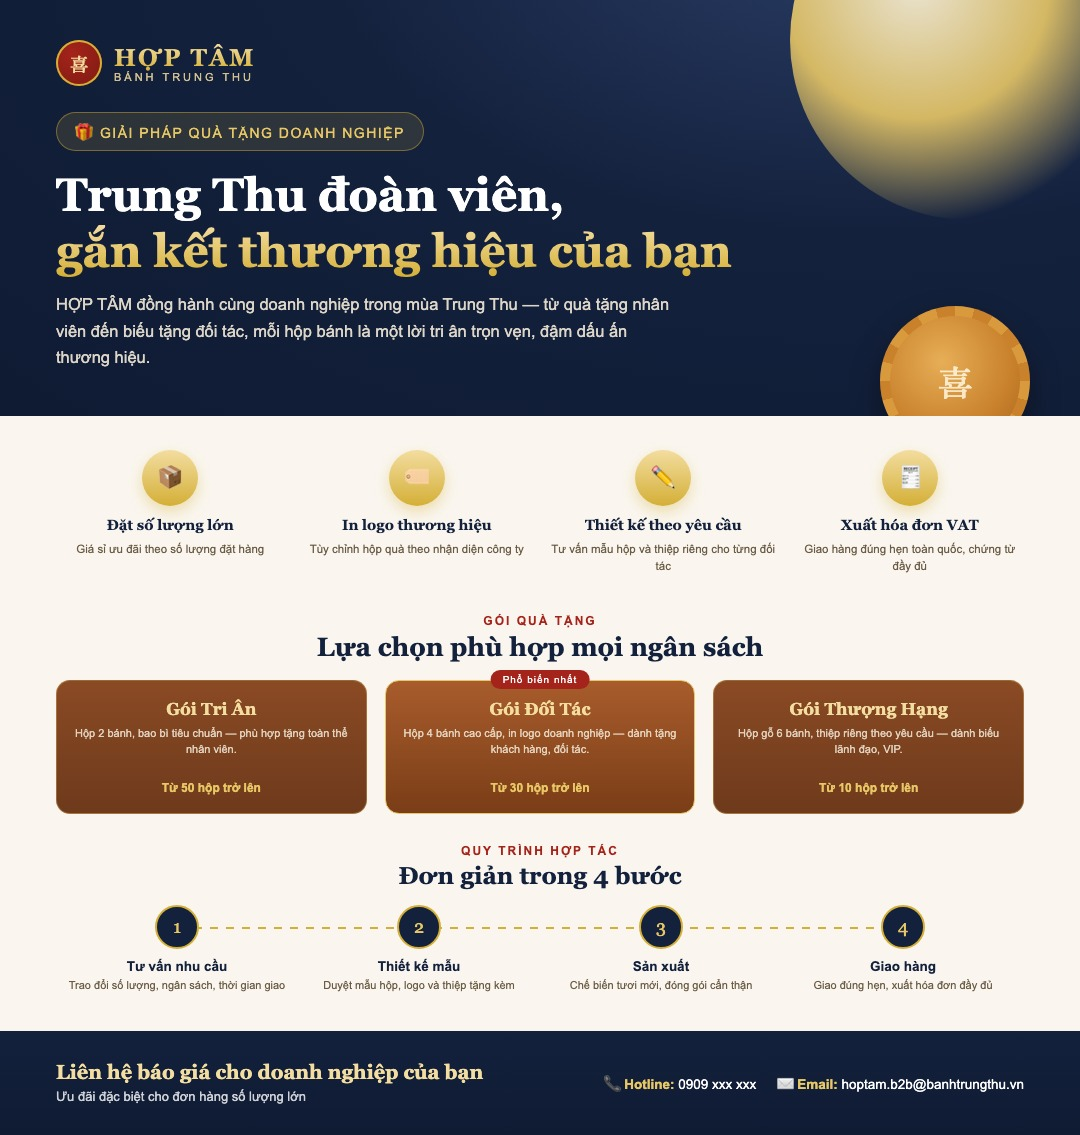
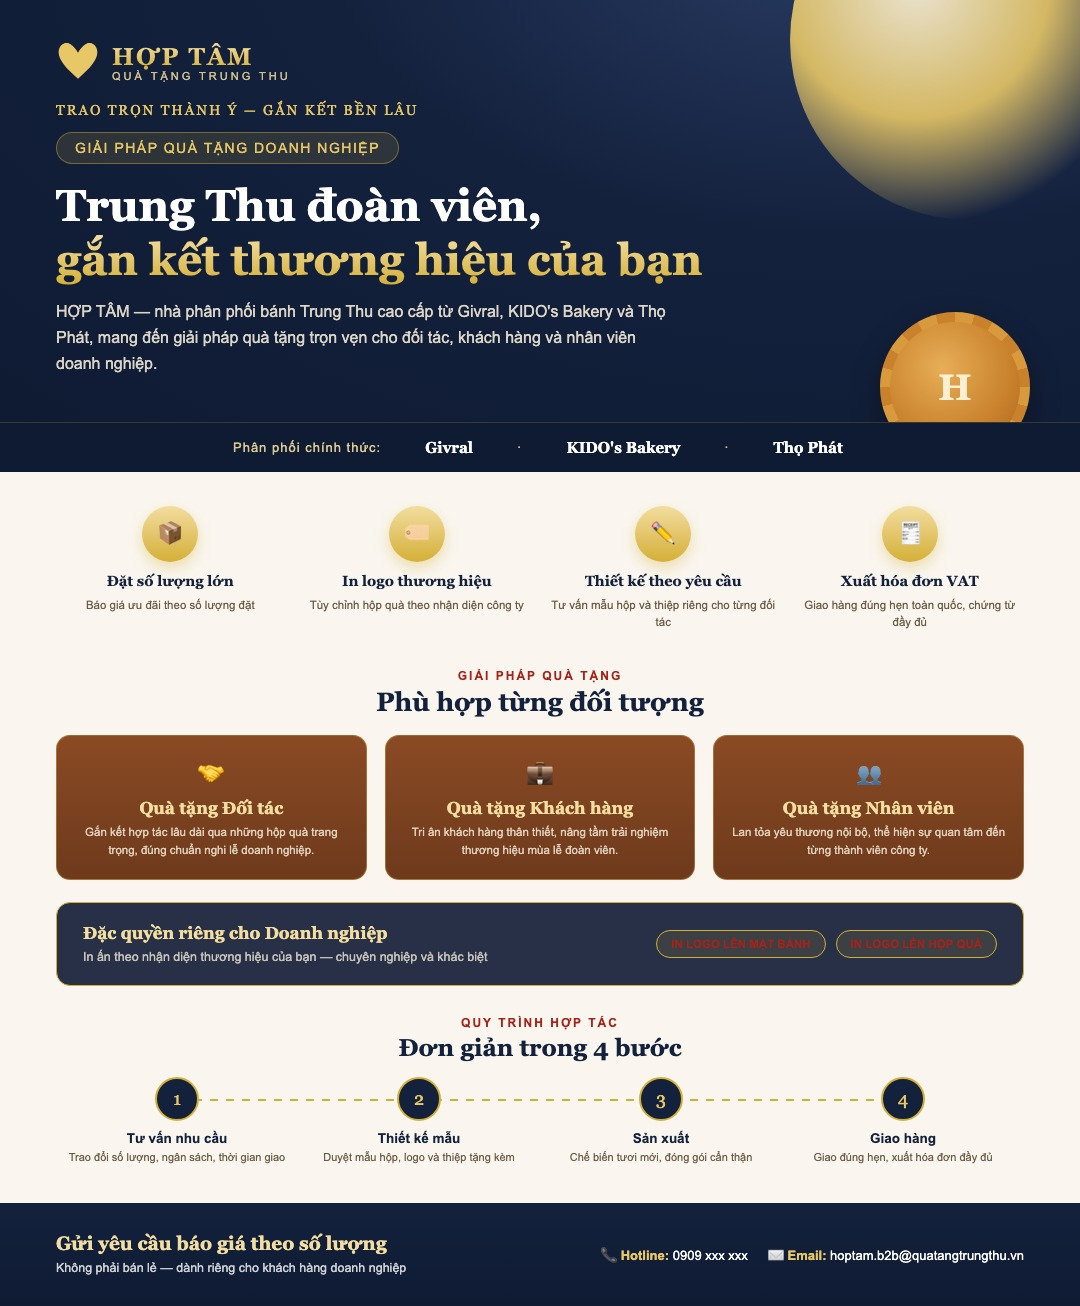
Add B2B price table by brand, reframe as quote-request for businesses
Show real reference prices from KIDO's Bakery catalog per product
group, mark Givral/Thọ Phát lines as "Liên hệ báo giá" where no
confirmed price exists rather than inventing numbers. Rename CTAs and
the contact form from retail "đặt hàng" language to a B2B quantity/
quote-request flow (dedicated "Số lượng dự kiến" field). Rebuild the
B2B poster to match: real logo mark, three gift-audience cards instead
of fabricated price tiers, brand strip for Givral/KIDO's Bakery/Thọ
Phát, and fixed a low-contrast text color in the policy banner.

Changed region(s): [[0.0, 0.0308, 1.0, 0.9868], [0.7333, 0.0617, 1.0, 0.185]]

diff --git a/b2b-poster-source.html b/b2b-poster-source.html
@@ -32,32 +32,33 @@
     background:radial-gradient(circle at 35% 35%, #fff6dc 0%, var(--gold-400) 40%, rgba(212,175,55,0) 72%);
     opacity:.9;
   }
-  .brand{display:flex;align-items:center;gap:12px;position:relative;z-index:2;margin-bottom:26px;}
-  .seal{
-    width:46px;height:46px;border-radius:50%;
-    background:radial-gradient(circle at 35% 30%, var(--red-600), var(--red-700));
-    display:flex;align-items:center;justify-content:center;
-    box-shadow:0 0 0 2px var(--gold-500) inset;flex:none;
-  }
-  .seal span{font-family:Georgia,serif;font-weight:700;color:var(--gold-300);font-size:18px;}
+  .brand{display:flex;align-items:center;gap:12px;position:relative;z-index:2;margin-bottom:18px;}
+  .seal{width:44px;height:44px;flex:none;}
+  .seal svg{width:100%;height:100%;}
   .brand b{display:block;font-family:Georgia,serif;font-size:24px;letter-spacing:2px;
     background:linear-gradient(180deg,var(--gold-300),var(--gold-500));-webkit-background-clip:text;background-clip:text;color:transparent;}
   .brand small{display:block;font-size:11px;letter-spacing:3px;color:var(--gold-300);opacity:.85;}
 
+  .slogan{position:relative;z-index:2;font-family:Georgia,serif;font-size:14px;letter-spacing:2px;color:var(--gold-400);margin-bottom:14px;}
   .kicker{position:relative;z-index:2;display:inline-block;background:rgba(212,175,55,.14);border:1px solid rgba(212,175,55,.45);
     color:var(--gold-400);padding:7px 18px;border-radius:999px;font-size:14px;letter-spacing:1.5px;margin-bottom:16px;}
-  .head h1{position:relative;z-index:2;font-family:Georgia,serif;font-size:46px;line-height:1.22;color:#fff;margin-bottom:12px;max-width:760px;}
+  .head h1{position:relative;z-index:2;font-family:Georgia,serif;font-size:44px;line-height:1.22;color:#fff;margin-bottom:12px;max-width:760px;}
   .head h1 em{font-style:normal;background:linear-gradient(180deg,var(--gold-300),var(--gold-500));
     -webkit-background-clip:text;background-clip:text;color:transparent;}
-  .head p{position:relative;z-index:2;font-size:16.5px;line-height:1.6;color:var(--cream-100);opacity:.9;max-width:620px;}
+  .head p{position:relative;z-index:2;font-size:16px;line-height:1.6;color:var(--cream-100);opacity:.9;max-width:620px;}
 
   .head .mooncake-deco{position:absolute;right:50px;bottom:-40px;width:150px;height:150px;border-radius:50%;
     background:repeating-conic-gradient(from 0deg,#d99a3d 0deg 15deg,#c9812c 15deg 30deg);
     box-shadow:0 14px 30px rgba(0,0,0,.35);z-index:1;}
   .head .mooncake-deco::before{content:"";position:absolute;inset:10px;border-radius:50%;
     background:radial-gradient(circle at 40% 35%, #e7ae57, #c9812c 60%, #a8641d 100%);}
-  .head .mooncake-deco::after{content:"喜";position:absolute;inset:0;display:flex;align-items:center;justify-content:center;
-    font-size:34px;color:rgba(255,247,225,.85);font-family:Georgia,serif;font-weight:700;}
+  .head .mooncake-deco::after{content:"H";position:absolute;inset:0;display:flex;align-items:center;justify-content:center;
+    font-size:36px;color:rgba(255,247,225,.9);font-family:Georgia,serif;font-weight:700;}
+
+  /* ---- Brand strip ---- */
+  .brand-strip{flex:none;background:var(--navy-950);padding:16px 56px;display:flex;align-items:center;justify-content:center;gap:40px;border-top:1px solid rgba(212,175,55,.2);}
+  .brand-strip span{color:var(--gold-300);font-size:13px;letter-spacing:1px;opacity:.9;}
+  .brand-strip b{font-family:Georgia,serif;color:#fff;font-size:15px;margin:0 4px;}
 
   /* ---- Value props ---- */
   .values{flex:none;background:var(--cream-50);padding:34px 56px 8px;display:grid;grid-template-columns:repeat(4,1fr);gap:18px;}
@@ -67,20 +68,28 @@
   .vcard h4{font-size:14.5px;font-family:Georgia,serif;color:var(--navy-900);margin-bottom:6px;line-height:1.3;}
   .vcard p{font-size:11.5px;color:var(--ink-500);line-height:1.5;}
 
-  /* ---- Packages ---- */
+  /* ---- Gift audiences ---- */
   .pkg-section{flex:none;padding:30px 56px 0;}
   .pkg-title{text-align:center;margin-bottom:18px;}
   .pkg-title .tag{color:var(--red-600);font-size:12px;letter-spacing:2px;font-weight:700;}
   .pkg-title h2{font-family:Georgia,serif;font-size:26px;color:var(--navy-900);margin-top:4px;}
-  .pkg-grid{display:grid;grid-template-columns:repeat(3,1fr);gap:18px;}
-  .pkg-card{border-radius:14px;padding:18px 16px;text-align:center;background:linear-gradient(180deg,var(--terracotta-700),#6e3a1c);
+  .pkg-grid{display:grid;grid-template-columns:repeat(3,1fr);gap:18px;margin-bottom:22px;}
+  .pkg-card{border-radius:14px;padding:20px 16px;text-align:center;background:linear-gradient(180deg,var(--terracotta-700),#6e3a1c);
     border:1px solid rgba(232,199,102,.35);color:var(--cream-100);position:relative;}
-  .pkg-card.mid{border-color:var(--gold-400);background:linear-gradient(180deg,#a85c2c,#7a3d17);}
-  .pkg-card .ribbon{position:absolute;top:-11px;left:50%;transform:translateX(-50%);background:var(--red-600);color:#fff;
-    font-size:10px;letter-spacing:1px;padding:4px 12px;border-radius:999px;}
+  .pkg-card .picon{font-size:26px;margin-bottom:8px;}
   .pkg-card h3{font-family:Georgia,serif;font-size:17px;color:var(--gold-300);margin-bottom:6px;}
-  .pkg-card p{font-size:11px;opacity:.85;line-height:1.5;margin-bottom:8px;min-height:48px;}
-  .pkg-card .qty{font-size:12px;color:var(--gold-400);font-weight:700;}
+  .pkg-card p{font-size:11.5px;opacity:.85;line-height:1.5;margin:0;}
+  .policy-banner{
+    background:rgba(15,27,51,.9);border:1px solid var(--gold-500);border-radius:14px;
+    padding:20px 26px;display:flex;align-items:center;gap:18px;flex-wrap:wrap;justify-content:space-between;
+  }
+  .policy-banner .txt b{display:block;font-family:Georgia,serif;font-size:17px;color:var(--gold-300);margin-bottom:4px;}
+  .policy-banner .txt span{font-size:12.5px;color:var(--cream-100);opacity:.8;}
+  .policy-banner .badges{display:flex;gap:10px;flex-wrap:wrap;}
+  .policy-banner .badges span{
+    background:rgba(212,175,55,.12);border:1px solid var(--gold-500);color:var(--red-600);
+    padding:7px 14px;border-radius:999px;font-size:11.5px;white-space:nowrap;font-weight:600;
+  }
 
   /* ---- Process ---- */
   .process{flex:none;padding:30px 56px 0;display:flex;flex-direction:column;}
@@ -98,9 +107,9 @@
   /* ---- CTA footer ---- */
   .cta{flex:none;background:linear-gradient(180deg,var(--navy-900),var(--navy-950));color:#fff;padding:30px 56px;
     display:flex;align-items:center;justify-content:space-between;margin-top:38px;}
-  .cta .left b{font-family:Georgia,serif;font-size:20px;color:var(--gold-300);display:block;margin-bottom:4px;}
-  .cta .left span{font-size:13px;opacity:.8;}
-  .cta .right{display:flex;gap:20px;font-size:13.5px;}
+  .cta .left b{font-family:Georgia,serif;font-size:19px;color:var(--gold-300);display:block;margin-bottom:4px;}
+  .cta .left span{font-size:12.5px;opacity:.8;}
+  .cta .right{display:flex;gap:20px;font-size:13px;}
   .cta .right div b{color:var(--gold-400);}
 </style>
 </head>
@@ -108,40 +117,58 @@
 <div class="canvas">
   <div class="head">
     <div class="brand">
-      <div class="seal"><span>喜</span></div>
-      <div><b>HỢP TÂM</b><small>BÁNH TRUNG THU</small></div>
+      <div class="seal">
+        <svg viewBox="0 0 100 100" xmlns="http://www.w3.org/2000/svg">
+          <circle cx="24" cy="17" r="10" fill="#e8c766"/>
+          <circle cx="76" cy="17" r="10" fill="#e8c766"/>
+          <path d="M50,88 C22,64 6,45 6,28 C6,12 20,2 32,9 C40,14 46,21 50,29 C54,21 60,14 68,9 C80,2 94,12 94,28 C94,45 78,64 50,88 Z" fill="#e8c766"/>
+        </svg>
+      </div>
+      <div><b>HỢP TÂM</b><small>QUÀ TẶNG TRUNG THU</small></div>
     </div>
-    <div class="kicker">🎁 GIẢI PHÁP QUÀ TẶNG DOANH NGHIỆP</div>
+    <div class="slogan">TRAO TRỌN THÀNH Ý — GẮN KẾT BỀN LÂU</div>
+    <div class="kicker">GIẢI PHÁP QUÀ TẶNG DOANH NGHIỆP</div>
     <h1>Trung Thu đoàn viên,<br><em>gắn kết thương hiệu của bạn</em></h1>
-    <p>HỢP TÂM đồng hành cùng doanh nghiệp trong mùa Trung Thu — từ quà tặng nhân viên đến biếu tặng đối tác, mỗi hộp bánh là một lời tri ân trọn vẹn, đậm dấu ấn thương hiệu.</p>
+    <p>HỢP TÂM — nhà phân phối bánh Trung Thu cao cấp từ Givral, KIDO's Bakery và Thọ Phát, mang đến giải pháp quà tặng trọn vẹn cho đối tác, khách hàng và nhân viên doanh nghiệp.</p>
     <div class="mooncake-deco"></div>
   </div>
 
+  <div class="brand-strip">
+    <span>Phân phối chính thức:</span>
+    <b>Givral</b><span>·</span><b>KIDO's Bakery</b><span>·</span><b>Thọ Phát</b>
+  </div>
+
   <div class="values">
-    <div class="vcard"><div class="vicon">📦</div><h4>Đặt số lượng lớn</h4><p>Giá sỉ ưu đãi theo số lượng đặt hàng</p></div>
+    <div class="vcard"><div class="vicon">📦</div><h4>Đặt số lượng lớn</h4><p>Báo giá ưu đãi theo số lượng đặt</p></div>
     <div class="vcard"><div class="vicon">🏷️</div><h4>In logo thương hiệu</h4><p>Tùy chỉnh hộp quà theo nhận diện công ty</p></div>
     <div class="vcard"><div class="vicon">✏️</div><h4>Thiết kế theo yêu cầu</h4><p>Tư vấn mẫu hộp và thiệp riêng cho từng đối tác</p></div>
     <div class="vcard"><div class="vicon">🧾</div><h4>Xuất hóa đơn VAT</h4><p>Giao hàng đúng hẹn toàn quốc, chứng từ đầy đủ</p></div>
   </div>
 
   <div class="pkg-section">
-    <div class="pkg-title"><div class="tag">GÓI QUÀ TẶNG</div><h2>Lựa chọn phù hợp mọi ngân sách</h2></div>
+    <div class="pkg-title"><div class="tag">GIẢI PHÁP QUÀ TẶNG</div><h2>Phù hợp từng đối tượng</h2></div>
     <div class="pkg-grid">
       <div class="pkg-card">
-        <h3>Gói Tri Ân</h3>
-        <p>Hộp 2 bánh, bao bì tiêu chuẩn — phù hợp tặng toàn thể nhân viên.</p>
-        <div class="qty">Từ 50 hộp trở lên</div>
-      </div>
-      <div class="pkg-card mid">
-        <div class="ribbon">Phổ biến nhất</div>
-        <h3>Gói Đối Tác</h3>
-        <p>Hộp 4 bánh cao cấp, in logo doanh nghiệp — dành tặng khách hàng, đối tác.</p>
-        <div class="qty">Từ 30 hộp trở lên</div>
+        <div class="picon">🤝</div>
+        <h3>Quà tặng Đối tác</h3>
+        <p>Gắn kết hợp tác lâu dài qua những hộp quà trang trọng, đúng chuẩn nghi lễ doanh nghiệp.</p>
       </div>
       <div class="pkg-card">
-        <h3>Gói Thượng Hạng</h3>
-        <p>Hộp gỗ 6 bánh, thiệp riêng theo yêu cầu — dành biếu lãnh đạo, VIP.</p>
-        <div class="qty">Từ 10 hộp trở lên</div>
+        <div class="picon">💼</div>
+        <h3>Quà tặng Khách hàng</h3>
+        <p>Tri ân khách hàng thân thiết, nâng tầm trải nghiệm thương hiệu mùa lễ đoàn viên.</p>
+      </div>
+      <div class="pkg-card">
+        <div class="picon">👥</div>
+        <h3>Quà tặng Nhân viên</h3>
+        <p>Lan tỏa yêu thương nội bộ, thể hiện sự quan tâm đến từng thành viên công ty.</p>
+      </div>
+    </div>
+    <div class="policy-banner">
+      <div class="txt"><b>Đặc quyền riêng cho Doanh nghiệp</b><span>In ấn theo nhận diện thương hiệu của bạn — chuyên nghiệp và khác biệt</span></div>
+      <div class="badges">
+        <span>IN LOGO LÊN MẶT BÁNH</span>
+        <span>IN LOGO LÊN HỘP QUÀ</span>
       </div>
     </div>
   </div>
@@ -157,10 +184,10 @@
   </div>
 
   <div class="cta">
-    <div class="left"><b>Liên hệ báo giá cho doanh nghiệp của bạn</b><span>Ưu đãi đặc biệt cho đơn hàng số lượng lớn</span></div>
+    <div class="left"><b>Gửi yêu cầu báo giá theo số lượng</b><span>Không phải bán lẻ — dành riêng cho khách hàng doanh nghiệp</span></div>
     <div class="right">
       <div>📞 <b>Hotline:</b> 0909 xxx xxx</div>
-      <div>✉️ <b>Email:</b> [email redacted]</div>
+      <div>✉️ <b>Email:</b> [email redacted]</div>
     </div>
   </div>
 </div>

diff --git a/index.html b/index.html
@@ -169,9 +169,13 @@
   .brand-card p.desc{font-size:13.5px;color:var(--ink-500);line-height:1.6;margin-bottom:16px;}
   .brand-groups{list-style:none;padding:0;margin:0;}
   .brand-groups li{
-    font-size:13px;color:var(--ink-700);padding:8px 0;border-top:1px solid var(--cream-100);
+    display:flex;align-items:baseline;justify-content:space-between;gap:10px;
+    font-size:13px;color:var(--ink-700);padding:9px 0;border-top:1px solid var(--cream-100);
   }
   .brand-groups li:first-child{border-top:none;}
+  .brand-groups li .name{flex:1;}
+  .brand-groups li .price{font-weight:700;color:var(--red-600);white-space:nowrap;font-size:12.5px;}
+  .brand-groups li .price.tbd{color:var(--ink-500);font-weight:400;font-style:italic;}
 
   /* ---------- B2B solutions ---------- */
   .b2b{background:linear-gradient(180deg,var(--terracotta-700),#6e3a1c);color:var(--cream-100);}
@@ -284,7 +288,7 @@
       <a href="#b2b">Giải pháp doanh nghiệp</a>
       <a href="#why">Vì sao chọn Hợp Tâm</a>
       <a href="#about">Về chúng tôi</a>
-      <a href="#order" class="nav-cta">Liên hệ đặt hàng</a>
+      <a href="#order" class="nav-cta">Nhận báo giá</a>
     </div>
   </div>
 </nav>
@@ -321,9 +325,9 @@
 <section class="brands" id="brands">
   <div class="wrap">
     <div class="sec-head">
-      <div class="sec-tag">Thương hiệu phân phối</div>
+      <div class="sec-tag">Nhóm sản phẩm &amp; bảng giá</div>
       <h2>Ba thương hiệu bánh Trung Thu uy tín</h2>
-      <p>HỢP TÂM tuyển chọn và phân phối các dòng bánh Trung Thu cao cấp được tin dùng, phù hợp mọi nhu cầu quà tặng của doanh nghiệp.</p>
+      <p>HỢP TÂM tuyển chọn và phân phối các dòng bánh Trung Thu cao cấp được tin dùng, phù hợp mọi nhu cầu quà tặng của doanh nghiệp. Giá tham khảo theo hạng mục — liên hệ để nhận báo giá chính xác theo số lượng.</p>
     </div>
     <div class="brand-grid">
       <div class="brand-card">
@@ -331,9 +335,10 @@
         <div class="brand-since">SINCE 1950</div>
         <p class="desc">Thương hiệu bánh lâu đời, nguyên liệu cao cấp, thiết kế hộp quà sang trọng theo mùa.</p>
         <ul class="brand-groups">
-          <li>Hộp 4 bánh</li>
-          <li>Hộp 6 bánh</li>
-          <li>Hộp cao cấp lá phong</li>
+          <li><span class="name">Hộp 4 bánh nhỏ</span><span class="price tbd">Liên hệ báo giá</span></li>
+          <li><span class="name">Hộp 4 bánh</span><span class="price tbd">Liên hệ báo giá</span></li>
+          <li><span class="name">Hộp 6 bánh</span><span class="price tbd">Liên hệ báo giá</span></li>
+          <li><span class="name">Hộp cao cấp lá phong</span><span class="price tbd">Liên hệ báo giá</span></li>
         </ul>
       </div>
       <div class="brand-card">
@@ -341,11 +346,12 @@
         <div class="brand-since">PREMIUM MOONCAKE</div>
         <p class="desc">Dòng bánh cao cấp với nhân xốt độc đáo, thiết kế hộp quà mang phong cách hiện đại, sang trọng.</p>
         <ul class="brand-groups">
-          <li>Mỹ Vị Cát Tường</li>
-          <li>Mỹ Vị An Khang</li>
-          <li>Mỹ Vị Kim Cương &amp; Ngọc Bích</li>
-          <li>Mỹ Vị Như Ý &amp; Thịnh Vượng</li>
-          <li>Mỹ Vị Lava</li>
+          <li><span class="name">Mỹ Vị Lava (3 bánh 80g)</span><span class="price">300.000đ</span></li>
+          <li><span class="name">Mỹ Vị An Khang (4 bánh 150g)</span><span class="price">500.000đ</span></li>
+          <li><span class="name">Mỹ Vị Cát Tường (4 bánh 150g)</span><span class="price">650.000đ</span></li>
+          <li><span class="name">Mỹ Vị Thịnh Vượng (4 bánh 210g+trà)</span><span class="price">800.000đ</span></li>
+          <li><span class="name">Mỹ Vị Như Ý (4 bánh 210g+trà)</span><span class="price">1.000.000đ</span></li>
+          <li><span class="name">Mỹ Vị Kim Cương/Ngọc Bích (6 bánh+trà)</span><span class="price">1.300.000đ</span></li>
         </ul>
       </div>
       <div class="brand-card">
@@ -353,9 +359,9 @@
         <div class="brand-since">HƯƠNG VỊ TRUYỀN THỐNG</div>
         <p class="desc">Bánh Trung Thu truyền thống được yêu thích nhiều năm, đa dạng hộp quà tặng phổ thông đến cao cấp.</p>
         <ul class="brand-groups">
-          <li>Hộp quà truyền thống</li>
-          <li>Hộp quà cao cấp</li>
-          <li>Bánh dẻo &amp; bánh nướng thập cẩm</li>
+          <li><span class="name">Hộp quà truyền thống</span><span class="price tbd">Liên hệ báo giá</span></li>
+          <li><span class="name">Hộp quà cao cấp</span><span class="price tbd">Liên hệ báo giá</span></li>
+          <li><span class="name">Bánh dẻo &amp; bánh nướng thập cẩm</span><span class="price tbd">Liên hệ báo giá</span></li>
         </ul>
       </div>
     </div>
@@ -459,8 +465,8 @@
   <div class="wrap order-inner">
     <div>
       <div class="sec-tag" style="color:var(--gold-400)">Liên hệ</div>
-      <h2>Nhận tư vấn quà tặng doanh nghiệp</h2>
-      <p>Điền thông tin bên dưới, đội ngũ HỢP TÂM sẽ liên hệ tư vấn giải pháp quà tặng phù hợp trong vòng 24 giờ.</p>
+      <h2>Gửi yêu cầu báo giá theo số lượng</h2>
+      <p>HỢP TÂM phục vụ khách hàng doanh nghiệp — vui lòng cho biết số lượng và yêu cầu, đội ngũ chúng tôi sẽ gửi báo giá phù hợp trong vòng 24 giờ. Đây không phải trang bán lẻ trực tuyến.</p>
       <ul class="order-info">
         <li>📍 <span><b>Văn phòng:</b> 123 Đường Trăng Rằm, Quận 1, TP. Hồ Chí Minh</span></li>
         <li>📞 <span><b>Hotline:</b> 0909 xxx xxx</span></li>
@@ -483,20 +489,26 @@
         <label>Công ty / Doanh nghiệp</label>
         <input type="text" name="company" placeholder="Tên công ty" />
       </div>
-      <div class="field">
-        <label>Nhu cầu quà tặng</label>
-        <select name="need">
-          <option>Quà tặng Đối tác</option>
-          <option>Quà tặng Khách hàng</option>
-          <option>Quà tặng Nhân viên</option>
-        </select>
+      <div class="row2">
+        <div class="field">
+          <label>Nhu cầu quà tặng</label>
+          <select name="need">
+            <option>Quà tặng Đối tác</option>
+            <option>Quà tặng Khách hàng</option>
+            <option>Quà tặng Nhân viên</option>
+          </select>
+        </div>
+        <div class="field">
+          <label>Số lượng dự kiến</label>
+          <input type="text" name="quantity" placeholder="Ví dụ: 200 hộp" />
+        </div>
       </div>
       <div class="field">
-        <label>Ghi chú</label>
-        <textarea name="note" placeholder="Số lượng dự kiến, yêu cầu in logo, ngân sách..."></textarea>
+        <label>Yêu cầu thêm</label>
+        <textarea name="note" placeholder="Yêu cầu in logo, thương hiệu quan tâm, ngân sách..."></textarea>
       </div>
-      <button type="submit" class="btn btn-primary">Gửi yêu cầu tư vấn</button>
-      <div class="form-msg" id="formMsg">✓ Cảm ơn bạn! HỢP TÂM đã nhận được yêu cầu và sẽ liên hệ tư vấn sớm nhất.</div>
+      <button type="submit" class="btn btn-primary">Gửi yêu cầu báo giá</button>
+      <div class="form-msg" id="formMsg">✓ Cảm ơn bạn! HỢP TÂM đã nhận được yêu cầu và sẽ gửi báo giá sớm nhất.</div>
     </form>
   </div>
 </section>